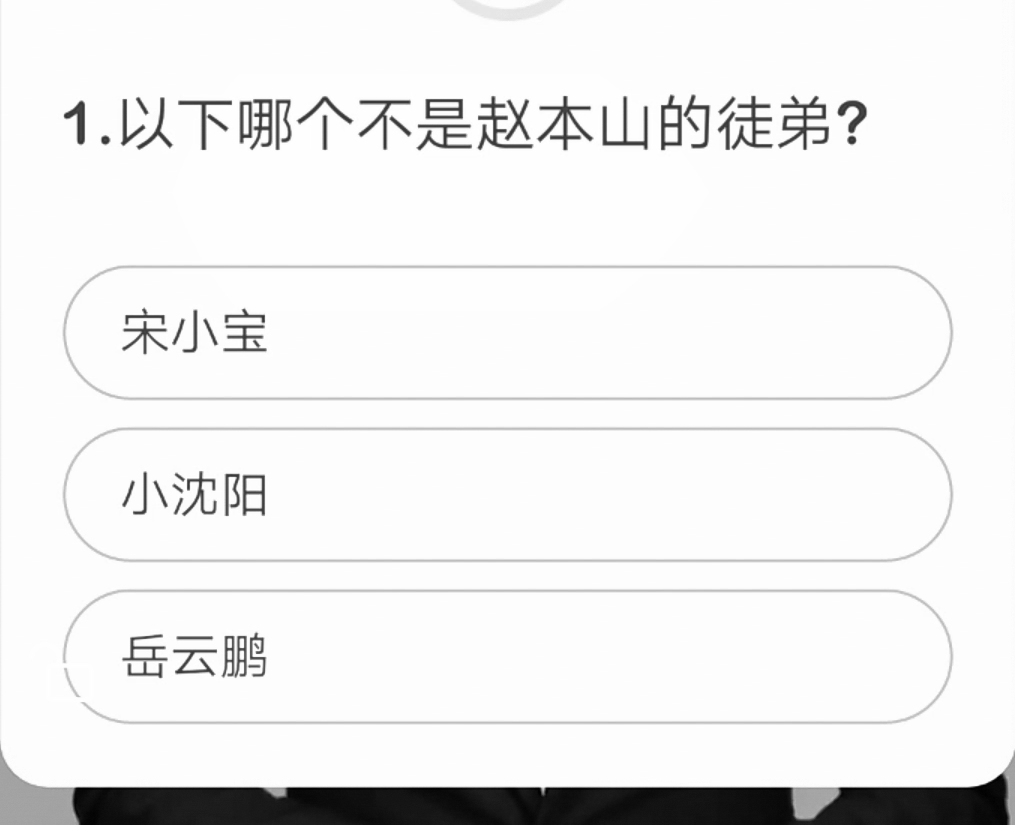
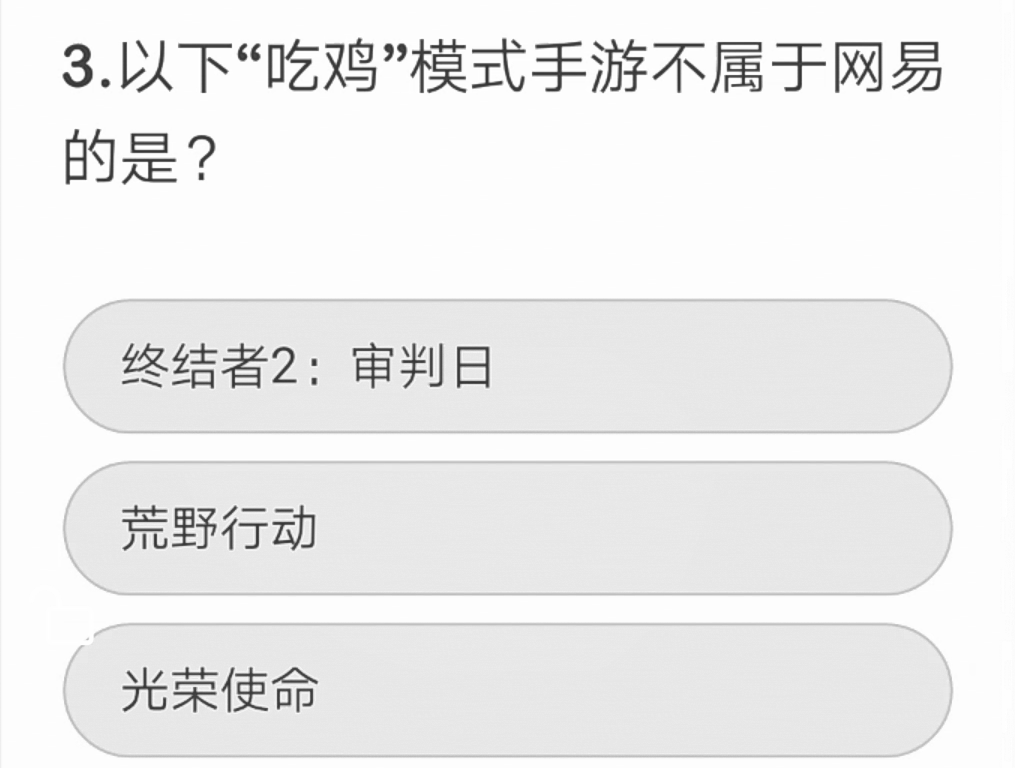
modify parse_answer_area function

diff --git a/core/android.py b/core/android.py
@@ -14,23 +14,23 @@ import os
 from PIL import Image
 from shutil import copyfile
 
-def get_screen_size():
-    cmd='adb shell wm size'
-    r=os.popen(cmd).read()
-    r=r.split(' ')[-1].strip()
-    width,height=tuple(r.split('x'))
-    return width,height
-	
-def get_target_area():
-    width,height=get_screen_size()
-    width=int(width)
-    height=int(height)
-    left=0.03
-    right=0.97
-    up=0.15
-    down=0.58
-    target_area=(int(width*left),int(height*up),int(width*right),int(height*down))
-    return target_area
+#def get_screen_size():
+#    cmd='adb shell wm size'
+#    r=os.popen(cmd).read()
+#    r=r.split(' ')[-1].strip()
+#    width,height=tuple(r.split('x'))
+#    return width,height
+#	
+#def get_target_area():
+#    width,height=get_screen_size()
+#    width=int(width)
+#    height=int(height)
+#    left=0.03
+#    right=0.97
+#    up=0.15
+#    down=0.58
+#    target_area=(int(width*left),int(height*up),int(width*right),int(height*down))
+#    return target_area
 	
 def analyze_current_screen_text(directory=".", compress_level=1):
     """
@@ -93,9 +93,15 @@ def parse_answer_area(source_file, text_area_file, compress_level):
         image = image.convert("L")
     elif compress_level == 2:
         image = image.convert("1")
-    wide = image.size[0]
     
-    target_area=get_target_area()
+    width,height = image.size
+    left=0.03
+    right=0.97
+    up=0.18
+    down=0.58
+    target_area=(int(width*left),int(height*up),int(width*right),int(height*down))
+    
+    
     region = image.crop(target_area)
     region.save(text_area_file)
 

diff --git a/main.py b/main.py
@@ -88,9 +88,10 @@ def pre_process_question(keyword):
 
 
 def main():
+    
     args = parse_args()
     timeout = args.timeout
-
+    
     if enable_chrome:
         question_obj = Value(ctypes.c_char_p, "".encode("utf-8"))
         browser_daemon = multiprocessing.Process(target=run_browser, args=(question_obj,))
@@ -99,6 +100,7 @@ def main():
 
     def __inner_job():
         start = time.time()
+        
         text_binary = analyze_current_screen_text(
             directory=data_directory,
             compress_level=image_compress_level[0]
@@ -109,7 +111,6 @@ def main():
         if not keywords:
             print("failed")
             return
-
         true_flag, question, answers = parse_question_and_answer(keywords)
         print()
         print(question)
